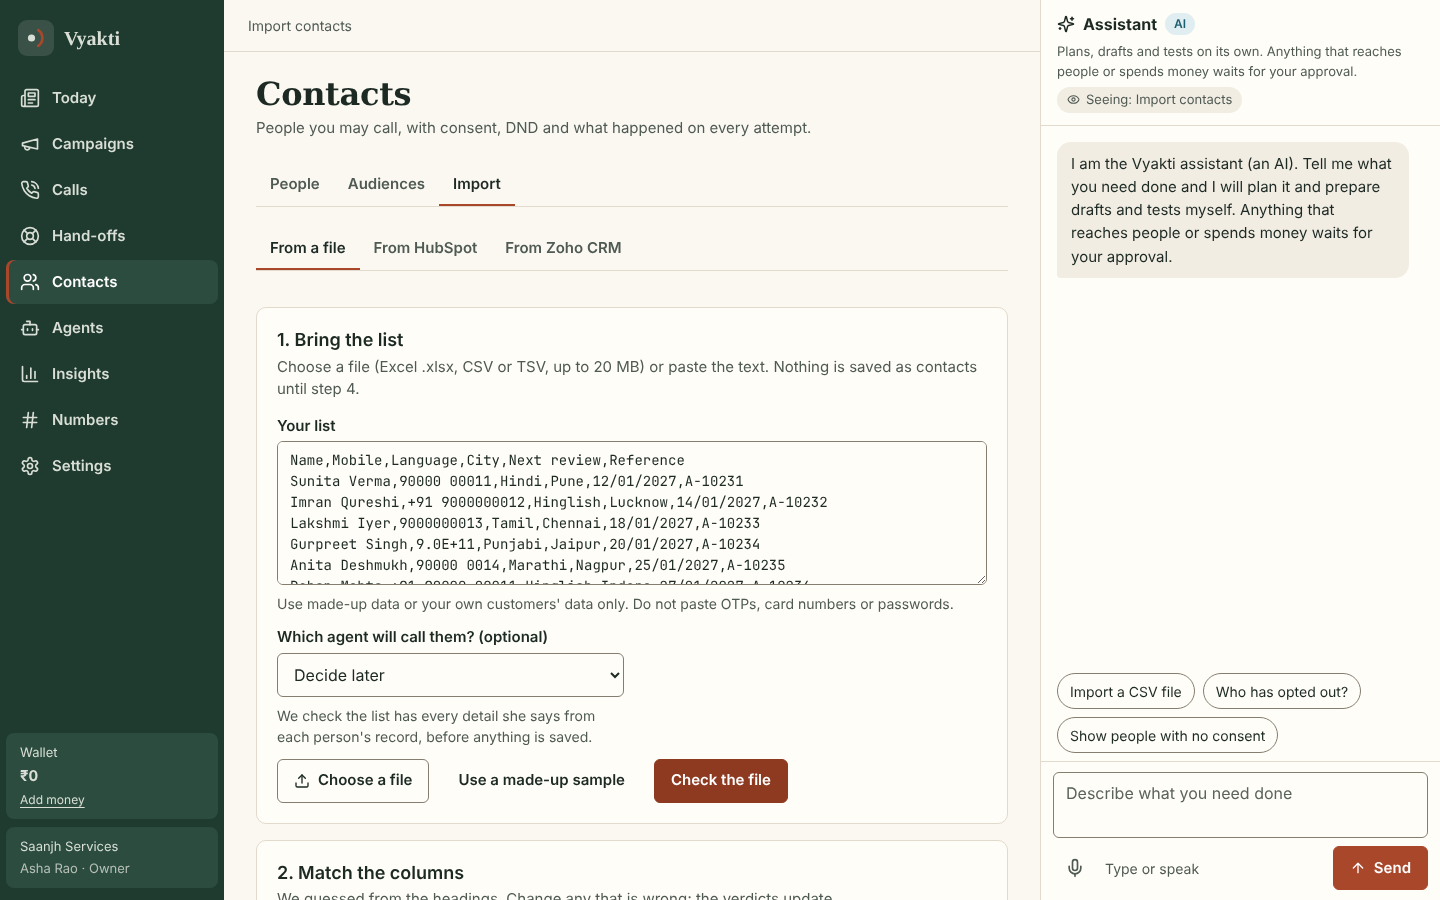
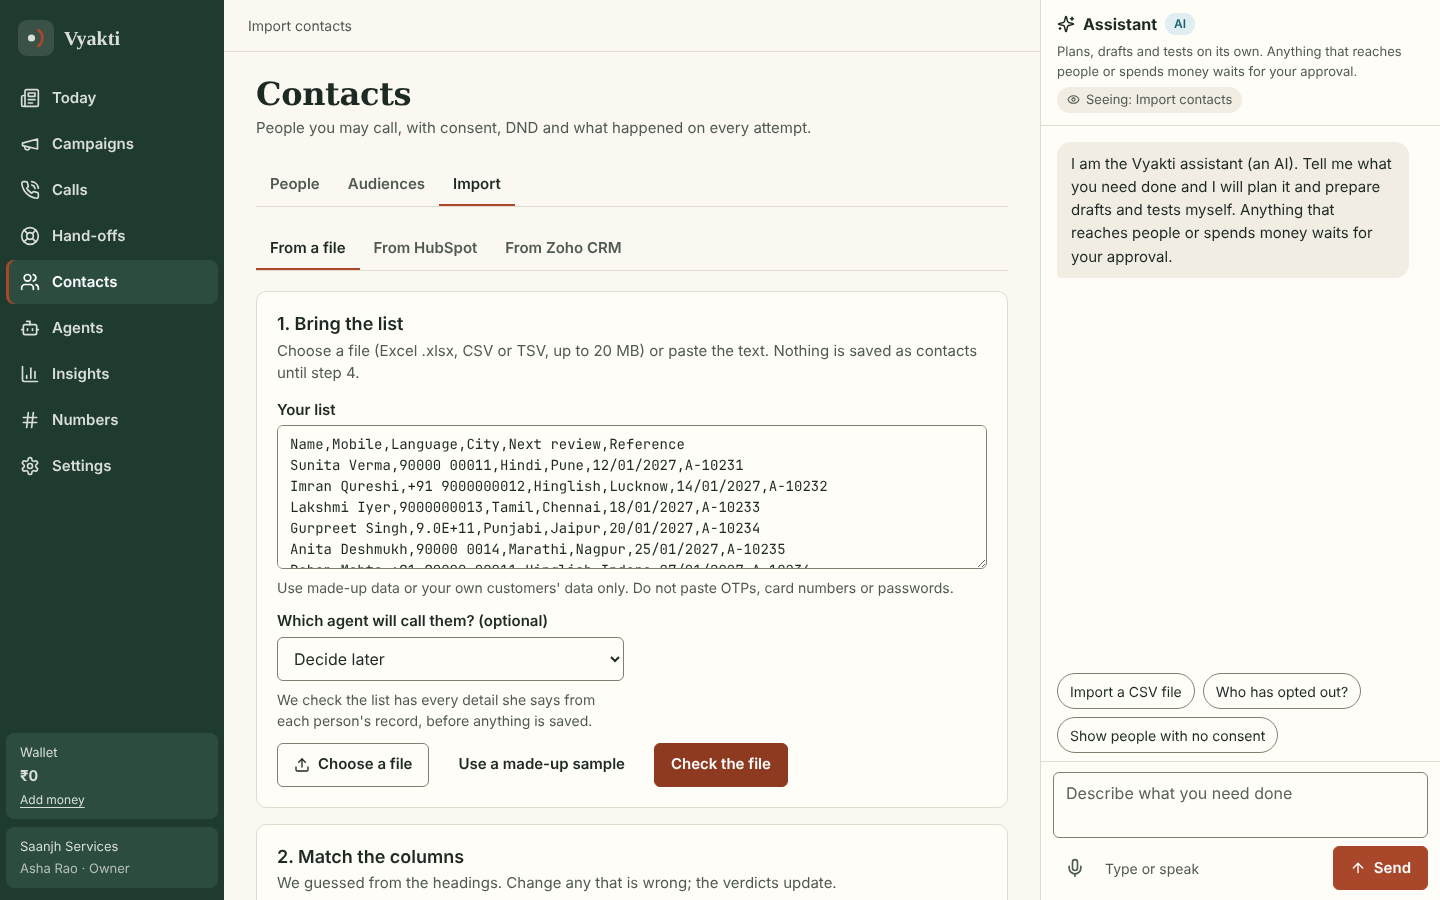
Import tabs no longer widen the phone page; the axe audit fails any phone screen wider than the screen
CI web-e2e (flow 59) timed out tapping 'Check the file'. The source tabs (From a file / HubSpot / Zoho CRM) sat inside a
.stack grid, so the tab row's full width became the column's minimum. At 390 px the page was 405 px wide (451 px with
DejaVu Sans, the runner's fallback font). The phone zoomed out and taps landed on the field above. The tabs now sit
outside the grid, as the section tabs do, and scroll within the screen.
Guard: on the phone pass the audit adds a serious 'page-scrolls-sideways' violation (WCAG 1.4.10) when scrollWidth
exceeds clientWidth. With the fix reverted it flags exactly the three Import screens; with it, none.
Verified: e2e 65/65 locally (64/65 with the fix reverted); full fresh-DB suite green; tsc clean; import screenshots
retaken at 1440 and 390 and looked at. Not verified: the CI runner itself (its font emulated by forcing DejaVu Sans).

Claude-Session: https://claude.ai/code/session_01Kn2Wujy8N6x7b3JcEsSidi

Changed region(s): [[0.1875, 0.3422, 0.6875, 0.9022], [0.1875, 0.9333, 0.5938, 1.0]]

diff --git a/product/web/src/pages/contacts.tsx b/product/web/src/pages/contacts.tsx
@@ -117,11 +117,12 @@ type ImportFrom = (typeof SOURCES)[number]['id'];
 function Import() {
   const [qs, setQs] = useQuery();
   const from = (SOURCES.some(x => x.id === qs.get('from')) ? qs.get('from') : 'file') as ImportFrom;
+  // The tabs stay outside a grid: inside one, the row's full width becomes the column's minimum and a phone page scrolls sideways.
   return (
-    <div className="stack">
+    <>
       <Tabs label="Where the list comes from" value={from} onChange={v => setQs({ from: v === 'file' ? null : v })} items={SOURCES.map(x => ({ ...x }))} />
       {from === 'file' ? <FileImport /> : <Suspense fallback={<Card><Skeleton rows={3} /></Card>}><CrmImport kind={from} /></Suspense>}
-    </div>
+    </>
   );
 }
 
